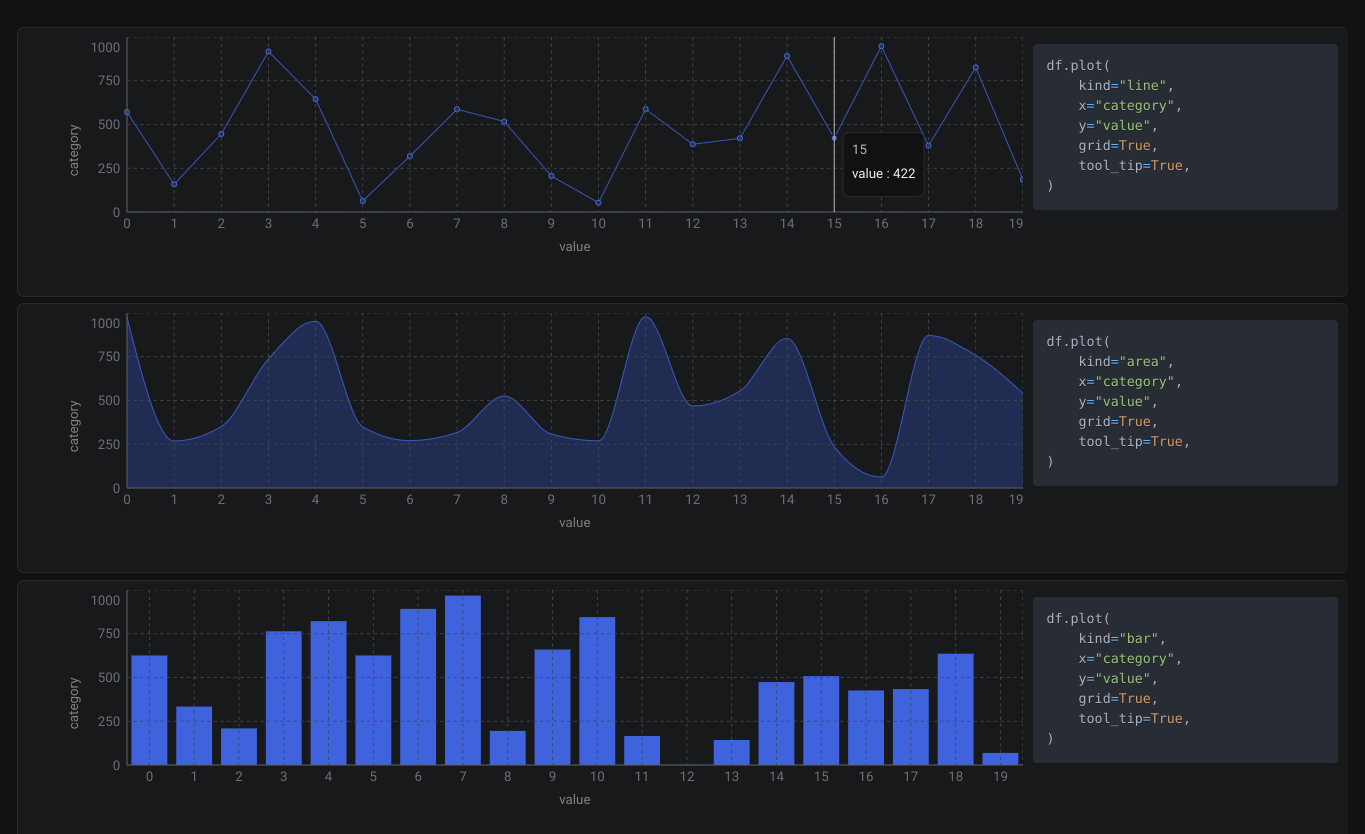
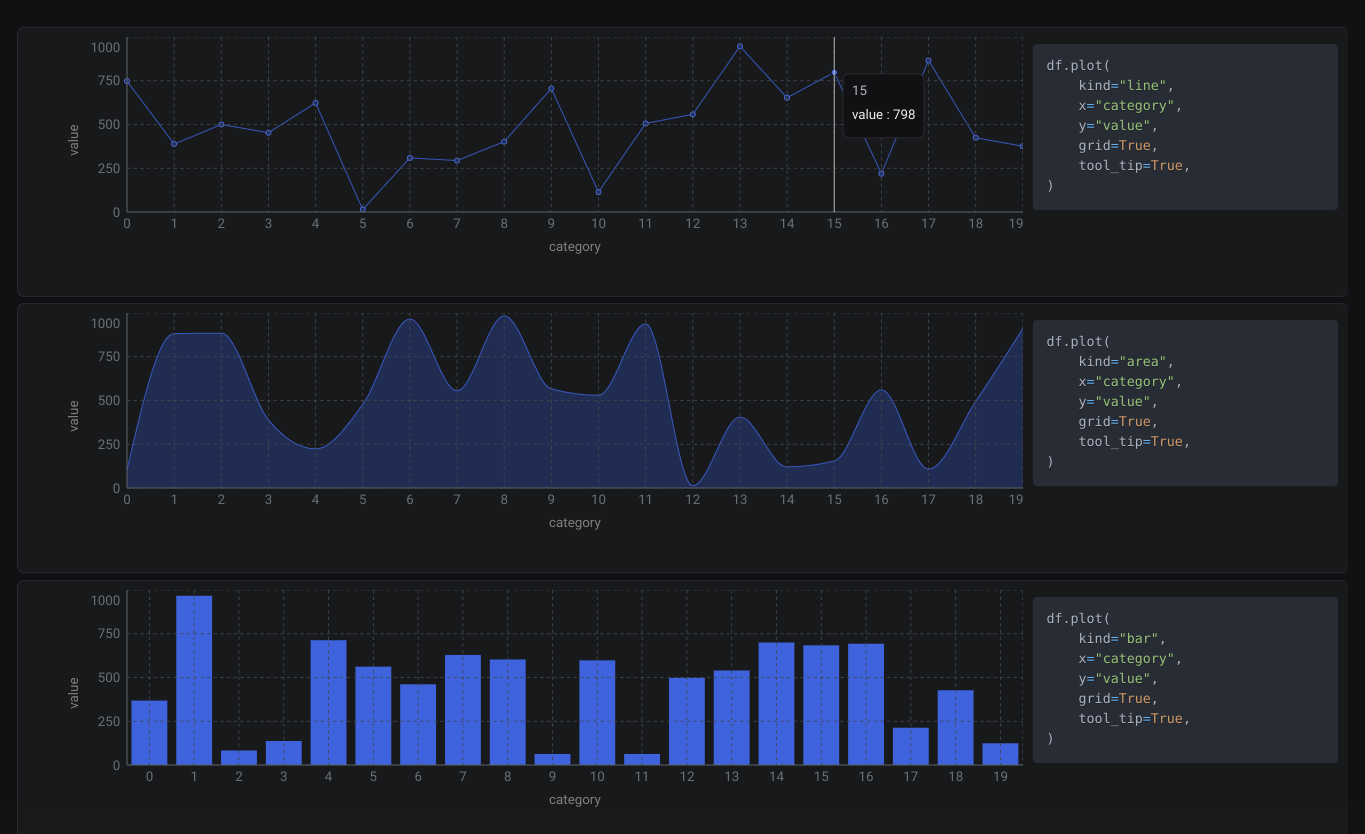
fix axes labels

diff --git a/src/reflex_plot/core.py b/src/reflex_plot/core.py
@@ -16,9 +16,9 @@ def plot(
 ) -> rx.Component:
     components = [
         getattr(rx.recharts, kind)(data_key=y),
-        rx.recharts.x_axis(x or xlabel, label=dict(value=y, position="bottom")),
+        rx.recharts.x_axis(x or xlabel, label=dict(value=x, position="bottom")),
         rx.recharts.y_axis(
-            y or ylabel, label=dict(value=x, position="left", angle=-90)
+            y or ylabel, label=dict(value=y, position="left", angle=-90)
         ),
     ]
 
